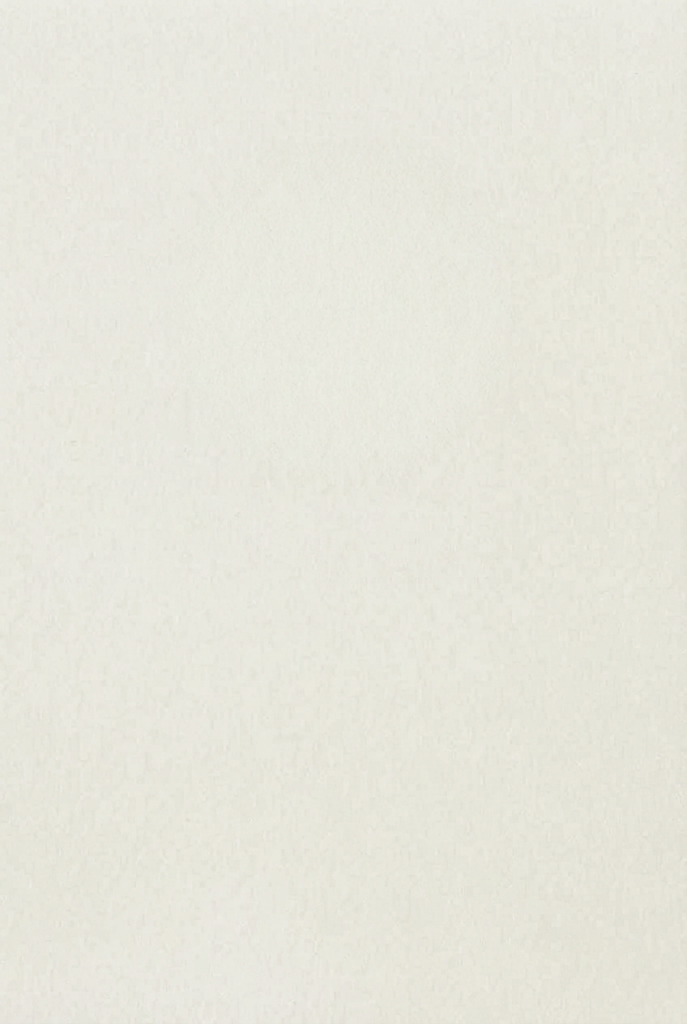
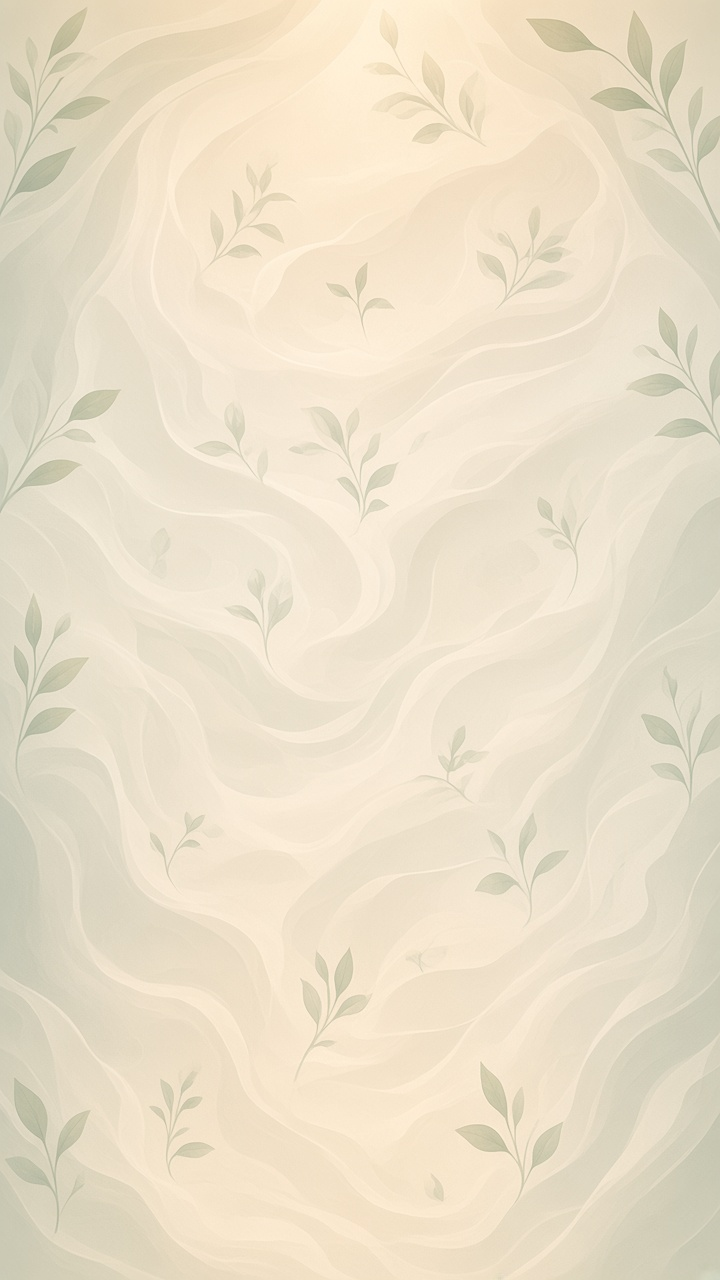
Actualiza el fondo amanecer y limpia la navegación de Eventos.

diff --git a/src/app/eventos/encuesta/page.tsx b/src/app/eventos/encuesta/page.tsx
@@ -2,7 +2,7 @@ import Link from "next/link";
 
 import { ClosePollForm } from "@/components/EventForms";
 import { PollVoteForm } from "@/components/PollVoteForm";
-import { BackLink, EmptyState, PageHeader } from "@/components/ui";
+import { EmptyState, PageHeader } from "@/components/ui";
 import { getAdminSession } from "@/lib/authz";
 import { formatBirthday } from "@/lib/birthdays";
 import { isSingleDayOption, monthName } from "@/lib/events";
@@ -28,7 +28,6 @@ export default async function PollPage() {
   if (board.missing) {
     return (
       <main className="screen">
-        <BackLink href="/eventos" label="Eventos" />
         <EmptyState title="Falta preparar la base de datos" description="Ejecuta supabase/events.sql en el SQL Editor." />
       </main>
     );
@@ -38,7 +37,6 @@ export default async function PollPage() {
   if (!poll) {
     return (
       <main className="screen">
-        <BackLink href="/eventos" label="Eventos" />
         <EmptyState title="No hay encuesta este mes" />
       </main>
     );
@@ -69,7 +67,6 @@ export default async function PollPage() {
 
   return (
     <main className="screen">
-      <BackLink href="/eventos" label="Eventos" />
       <PageHeader title={`Cumpleaños de ${monthName(board.month)}`} subtitle="Un voto por familia · varios días" />
 
       {birthdays.length > 0 ? (
@@ -132,9 +129,7 @@ export default async function PollPage() {
                   <p className="font-semibold text-ink">{family?.name ?? "Familia"}</p>
                   <p className="mt-0.5 text-muted">
                     {labels}
-                    {sample
-                      ? ` · ${peopleLabel(sample.adultsCount, sample.childrenCount)}`
-                      : ""}
+                    {sample ? ` · ${peopleLabel(sample.adultsCount, sample.childrenCount)}` : ""}
                   </p>
                 </li>
               );

diff --git a/src/app/eventos/[id]/page.tsx b/src/app/eventos/[id]/page.tsx
@@ -2,7 +2,7 @@ import { notFound } from "next/navigation";
 
 import { ConfirmSubmit } from "@/components/ConfirmSubmit";
 import { FoodForm, RsvpForm } from "@/components/EventForms";
-import { BackLink, Badge, PageHeader } from "@/components/ui";
+import { Badge, PageHeader } from "@/components/ui";
 import { getAdminSession } from "@/lib/authz";
 import { formatBirthday } from "@/lib/birthdays";
 import { formatLong, formatRange } from "@/lib/dates";
@@ -38,7 +38,6 @@ export default async function EventDetailPage({ params }: { params: Promise<{ id
 
   return (
     <main className="screen">
-      <BackLink href="/eventos" label="Eventos" />
       <PageHeader
         title={event.title}
         subtitle={event.startDate === event.endDate ? formatLong(event.startDate) : formatRange(event.startDate, event.endDate)}

diff --git a/src/components/ui.tsx b/src/components/ui.tsx
@@ -62,6 +62,10 @@ export function PageHeader({
   );
 }
 
+/**
+ * Solo en pantallas sin botón flotante (formularios nueva/editar, etc.).
+ * Si FloatingNav ya lleva a la pantalla padre, no uses BackLink.
+ */
 export function BackLink({ href, label }: { href: string; label: string }) {
   return (
     <Link
